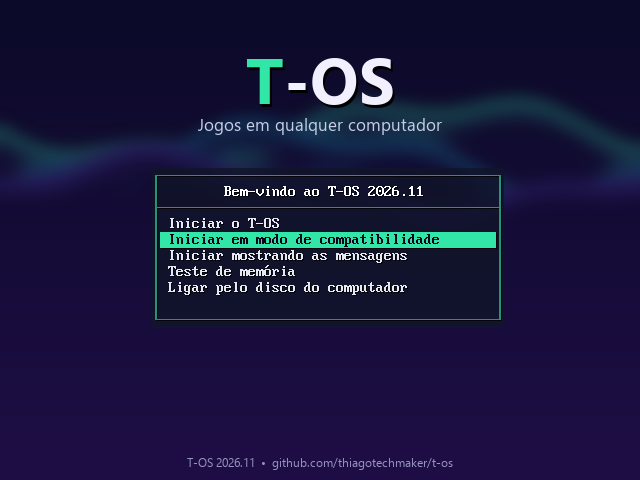
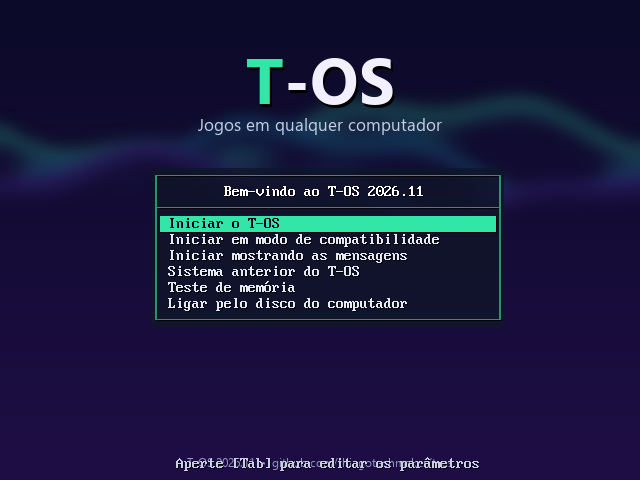
Fase 2: atualizacao A/B, PipeWire e Dreamcast
- tos-atualizar: procura a versao nova nas GitHub Releases, baixa,
  confere o SHA-256 e guarda a versao de agora como "anterior"
- initrd: depois de 3 tentativas sem chegar ao ScrapCade, volta sozinho
  para a versao anterior; menus BIOS/UEFI com "Sistema anterior"
- ScrapCade 1.4: tela "Atualizar o T-OS" no painel Sistema; confirma a
  versao nova depois de 60 s rodando; console Dreamcast (Flycast)
- PipeWire + WirePlumber (S35pipewire), curl, nucleo Flycast
- post-image: pasta atualizacao/ com os arquivos para publicar

Testado no QEMU: menu BIOS, volta automatica, confirmacao e a tela de
atualizacao alcancando o GitHub.

Changed region(s): [[0.25, 0.4375, 0.7812, 0.6562], [0.2812, 0.9375, 0.5938, 1.0], [0.5938, 0.9375, 0.75, 1.0]]

diff --git a/external/package/scrapcade/src/scrapcade.cpp b/external/package/scrapcade/src/scrapcade.cpp
@@ -1,4 +1,4 @@
-// ScrapCade para o T-OS - versao 1.3 (conversao do ScrapCade do iChroma para C++/SDL2)
+// ScrapCade para o T-OS - versao 1.4 (conversao do ScrapCade do iChroma para C++/SDL2)
 //
 // Modo jogo do T-OS: carrossel de capas com perspectiva e reflexo, filtros LB/RB (Todos, Favoritos,
 // Mais jogados e cada console), barra de cima com logo do console, emulador, filtro, hora, data e IP,
@@ -766,7 +766,7 @@ static void drawDetails() {
 
 // ------------------------------------------------------------------ painel Sistema (Select), como o Home.buildOptions
 
-enum { OPT_PERFIL, OPT_ENERGIA, OPT_THEME, OPT_ANIM, OPT_COVERS, OPT_BG, OPT_ENGINE, OPT_VOLUME, OPT_REDE, OPT_BLUETOOTH, OPT_SAMBA, OPT_SSH, OPT_CONTROLE, OPT_DESKTOP, OPT_HELP, OPT_BIOS, OPT_INSTALL, OPT_INFO, OPT_REBOOT, OPT_OFF, OPT_COUNT };
+enum { OPT_PERFIL, OPT_ENERGIA, OPT_THEME, OPT_ANIM, OPT_COVERS, OPT_BG, OPT_ENGINE, OPT_VOLUME, OPT_REDE, OPT_BLUETOOTH, OPT_SAMBA, OPT_SSH, OPT_CONTROLE, OPT_DESKTOP, OPT_HELP, OPT_BIOS, OPT_ATUALIZAR, OPT_INSTALL, OPT_INFO, OPT_REBOOT, OPT_OFF, OPT_COUNT };
 static bool sysOpen = false;
 static bool restartMenu = false;
 static std::string perfilNome();
@@ -845,6 +845,7 @@ static std::string optLabel(int i) {
     case OPT_DESKTOP: return "Modo desktop";
     case OPT_HELP: return "Como jogar (botões)";
     case OPT_BIOS: return "BIOS dos consoles";
+    case OPT_ATUALIZAR: return "Atualizar o T-OS";
     case OPT_INSTALL: return "Instalar no disco do computador";
     case OPT_INFO: return "Informações do sistema";
     case OPT_REBOOT: return "Reiniciar";
@@ -996,7 +997,7 @@ static void openInfo() {
     textLines.push_back(buf);
     textLines.push_back("Tela: " + std::to_string(G.W) + " x " + std::to_string(G.H) + "     Rede: " + ipAddr());
     snprintf(buf, sizeof buf, "  •  ligado há %d min", int(up / 60));
-    textLines.push_back("Sistema: T-OS " + ver.substr(ver.find('=') + 1) + " (Linux " + un.release + ")  •  menu: ScrapCade 1.3" + buf);
+    textLines.push_back("Sistema: T-OS " + ver.substr(ver.find('=') + 1) + " (Linux " + un.release + ")  •  menu: ScrapCade 1.4" + buf);
     textLines.push_back("Jogos: " + std::to_string(all.size()) + ", em " + ROMS);
     textLines.push_back("Emuladores previstos: " + emus);
     textLines.push_back("");
@@ -1438,6 +1439,103 @@ static void drawControle() {
     G.roundRect(x + 14 * u, top + 88 * u, std::max(6 * u, bw * ctlStep / NPASSOS), 6 * u, 3 * u, 0xFF2CCF9A);
 }
 
+// ------------------------------------------------------------------ atualizar o T-OS (tos-atualizar, A/B)
+
+static int updStage = 0;   // 0 fechado, 1 procurando, 2 resultado da procura, 3 baixando, 4 terminou
+static std::string updAtual, updNova, updMB, updMsg;
+static int updPct = 0;
+static std::mutex updMu;
+
+static std::string versaoBonita(const std::string &b) {   // 202611132145 -> 13/11/2026 21:45
+    if (b.size() < 12) return b;
+    return b.substr(6, 2) + "/" + b.substr(4, 2) + "/" + b.substr(0, 4) + " " + b.substr(8, 2) + ":" + b.substr(10, 2);
+}
+
+static void abrirAtualizar() {
+    updStage = 1;
+    std::thread([] {
+        std::string r = Rede::run("/usr/bin/tos-atualizar verificar");
+        while (!r.empty() && (r.back() == '\n' || r.back() == '\r')) r.pop_back();
+        std::vector<std::string> f;
+        std::stringstream ss(r);
+        std::string x;
+        while (std::getline(ss, x, '|')) f.push_back(x);
+        std::lock_guard<std::mutex> l(updMu);
+        updAtual = f.size() > 0 ? f[0] : "";
+        updNova = f.size() > 1 ? f[1] : "erro";
+        updMB = f.size() > 2 ? f[2] : "0";
+        updStage = 2;
+        redraw();
+    }).detach();
+}
+
+static void instalarAtualizacao() {
+    remove("/tmp/tos-atualizar.txt");
+    updPct = 0;
+    updMsg = "Começando";
+    updStage = 3;
+    std::thread([] {
+        if (system("/usr/bin/tos-atualizar instalar >> /userdata/system/logs/atualizar.log 2>&1") != 0) {}
+    }).detach();
+}
+
+static void drawAtualizar() {
+    if (!updStage) return;
+    float u = G.u, w = std::min(G.W - 24.0f * u, 440 * u), lh = 15 * u;
+    std::vector<std::string> L;
+    std::vector<uint32_t> C;
+    auto add = [&](const std::string &t, uint32_t cc = 0xFF2B2E33) { L.push_back(t); C.push_back(cc); };
+    std::string atual, nova, mb;
+    {
+        std::lock_guard<std::mutex> l(updMu);
+        atual = updAtual; nova = updNova; mb = updMB;
+    }
+    const char *H2[] = {"a", "atualizar", "b", "voltar"};
+    const char *H1[] = {"b", "voltar"};
+    const char *const *H = H1;
+    int nh = 2;
+    if (updStage == 1) {
+        add("Procurando a versão mais nova...");
+    } else if (updStage == 2) {
+        add("Versão instalada: " + versaoBonita(atual));
+        if (nova == "erro") {
+            add("Não deu para procurar: confira a internet (Rede e Wi-Fi).", 0xFFD0362B);
+        } else if (nova.empty()) {
+            add("O T-OS já está na versão mais nova.", 0xFF1E9C4A);
+        } else {
+            add("Versão nova: " + versaoBonita(nova) + "   (" + mb + " MB)", 0xFF1E9C4A);
+            add("");
+            add("Os jogos e os saves não são mexidos. A versão de agora fica guardada:");
+            add("se a nova não ligar, o T-OS volta para ela sozinho.", 0xFF5E6269);
+            H = H2;
+            nh = 4;
+        }
+    } else {
+        if (updStage == 3) {
+            std::ifstream in("/tmp/tos-atualizar.txt");
+            int pc = 0;
+            std::string msg;
+            if (in >> pc) { std::getline(in, msg); updPct = pc; if (!msg.empty()) updMsg = msg.substr(1); }
+            if (updPct >= 100 || updMsg.rfind("ERRO", 0) == 0) updStage = 4;
+        }
+        bool erro = updMsg.rfind("ERRO", 0) == 0;
+        add(updStage == 3 ? "Atualizando... não desligue." : (erro ? "A atualização não terminou." : "T-OS atualizado!"),
+            erro ? 0xFFD0362B : 0xFF2B2E33);
+        add(updMsg + (updStage == 3 ? "  (" + std::to_string(updPct) + "%)" : ""), erro ? 0xFFD0362B : 0xFF1E9C4A);
+        nh = updStage == 4 ? 2 : 0;
+    }
+    float h = 22 * u + 16 * u + L.size() * lh + 22 * u + (updStage == 3 ? 14 * u : 0);
+    float x = (G.W - w) / 2, y = (G.H - h) / 2;
+    float top = whitePanel("Atualizar o T-OS", x, y, w, h) + 12 * u;
+    for (size_t i = 0; i < L.size(); i++) T.draw(L[i], x + 14 * u, top + i * lh + lh / 2, 9.5f, false, C[i], 0, w - 28 * u);
+    if (updStage == 3) {
+        float by = top + L.size() * lh, bw = w - 28 * u;
+        G.roundRect(x + 14 * u, by, bw, 8 * u, 4 * u, 0xFFE3E5E8);
+        G.roundRect(x + 14 * u, by, std::max(8 * u, bw * updPct / 100.0f), 8 * u, 4 * u, 0xFF2CCF9A);
+    }
+    if (nh) panelHints(H, nh, x, y + h, w);
+}
+
 // ------------------------------------------------------------------ instalar no disco (tos-instalar)
 
 static int instStage = 0;   // 0 fechado, 1 escolher o disco, 2 confirmar, 3 instalando, 4 terminou
@@ -1619,6 +1717,7 @@ static void optAction(int dir) {
         return;
     case OPT_HELP: if (dir == 0) { sysOpen = false; openHelp(); } return;
     case OPT_INSTALL: if (dir == 0) { sysOpen = false; openInstall(); } return;
+    case OPT_ATUALIZAR: if (dir == 0) { sysOpen = false; abrirAtualizar(); } return;
     case OPT_BIOS:
         if (dir != 0) return;
         sysOpen = false;
@@ -1679,6 +1778,18 @@ static bool netInput(int b) {
     return true;
 }
 
+static bool updInput(int b) {
+    if (!updStage) return false;
+    std::string nova;
+    {
+        std::lock_guard<std::mutex> l(updMu);
+        nova = updNova;
+    }
+    if (updStage == 2 && b == B_A && !nova.empty() && nova != "erro") instalarAtualizacao();
+    else if ((updStage == 2 || updStage == 4) && (b == B_B || b == B_A)) { updStage = 0; sysOpen = true; }
+    return true;
+}
+
 static bool btInput(int b) {
     if (!btStage) return false;
     int n;
@@ -1721,6 +1832,7 @@ static bool panelInput(Btn b) {
     if (perfisInput(b)) return true;
     if (netInput(b)) return true;
     if (btInput(b)) return true;
+    if (updInput(b)) return true;
     if (installInput(b)) return true;
     if (!textTitle.empty()) {
         if (b == B_B || b == B_A || b == B_SELECT) { textTitle.clear(); sysOpen = true; }
@@ -2142,6 +2254,7 @@ static void render() {
     drawInstall();
     drawRede();
     drawBluetooth();
+    drawAtualizar();
     drawControle();
     drawTeclado();
     drawToast();
@@ -2186,7 +2299,7 @@ static std::string coreOf(const std::string &id) {
         {"nes", "mesen"}, {"snes", "snes9x"}, {"megadrive", "genesis_plus_gx"}, {"gb", "gambatte"},
         {"gbc", "gambatte"}, {"gba", "mgba"}, {"psx", "pcsx_rearmed"}, {"n64", "mupen64plus_next"},
         {"arcade", "fbneo"}, {"neogeo", "fbneo"}, {"psp", "ppsspp"}, {"nds", "melonds"},
-        {"saturn", "mednafen_saturn"}};
+        {"saturn", "mednafen_saturn"}, {"dreamcast", "flycast"}};
     auto it = m.find(id);
     return it == m.end() ? "" : it->second;
 }
@@ -2519,7 +2632,7 @@ int main() {
                     holdDir = 0;
                 break;
             case SDL_CONTROLLERAXISMOTION:
-                if (sysOpen || !textTitle.empty() || instStage || netStage || btStage || profStage || tkOn) {
+                if (sysOpen || !textTitle.empty() || instStage || netStage || btStage || updStage || profStage || tkOn) {
                     static int ly = 0;
                     if (e.caxis.axis == SDL_CONTROLLER_AXIS_LEFTY) {
                         int d = e.caxis.value < -20000 ? -1 : (e.caxis.value > 20000 ? 1 : 0);
@@ -2539,8 +2652,13 @@ int main() {
             }
         }
         Uint32 now = SDL_GetTicks();
+        static bool confirmado = false;
+        if (!confirmado && now > 60000) {
+            confirmado = true;
+            std::thread([] { if (system("/usr/bin/tos-atualizar confirmar") != 0) {} }).detach();
+        }
         // segurando o direcional: anda sozinho
-        if (holdDir && (sysOpen || !textTitle.empty() || instStage || netStage || btStage || ctlStep >= 0 || profStage || tkOn)) holdDir = 0;
+        if (holdDir && (sysOpen || !textTitle.empty() || instStage || netStage || btStage || updStage || ctlStep >= 0 || profStage || tkOn)) holdDir = 0;
         if (holdDir && now >= holdNext) { move(int(holdDir)); holdNext = now + 90; any = true; }
         // jogos novos na pasta: procura de novo a cada 5 s
         if (now - lastScan > 5000) {
@@ -2559,7 +2677,7 @@ int main() {
         time_t tt = time(nullptr);
         int mnow = localtime(&tt)->tm_min;
         static Uint32 lastBars = 0;
-        bool barsDue = (sysOpen || instStage == 3 || netStage == 1 || netStage == 3 || btStage) && now - lastBars > 1000;
+        bool barsDue = (sysOpen || instStage == 3 || netStage == 1 || netStage == 3 || btStage || updStage) && now - lastBars > 1000;
         if (ctlStep >= 0 || netStage == 2 || tkOn || profStage) any = true;
         if (barsDue) lastBars = now;
         if (any || animating || backdropFading || toastOn || mnow != minute || barsDue) {

diff --git a/external/package/scrapcade/src/catalogo.h b/external/package/scrapcade/src/catalogo.h
@@ -32,6 +32,7 @@ static std::vector<Sys> SYSTEMS = {
     {"gbc", "gbc", "Game Boy Color", "Gambatte", 0xFF2E9E62, {".gbc", ".zip"}},
     {"gba", "gba", "Game Boy Advance", "mGBA", 0xFF6C47C9, {".gba", ".zip"}},
     {"megadrive", "md", "Mega Drive", "Genesis Plus GX", 0xFF2B68C8, {".md", ".gen", ".smd", ".bin", ".sms", ".gg", ".zip"}},
+    {"dreamcast", "", "Dreamcast", "Flycast", 0xFFE8742B, {".cdi", ".gdi", ".chd", ".m3u"}},
     {"saturn", "", "Sega Saturn", "Beetle Saturn", 0xFF3A3F8F, {".cue", ".chd", ".ccd", ".m3u"}},
     {"psx", "psx", "PlayStation", "PCSX ReARMed", 0xFF7D8494, {".cue", ".chd", ".pbp", ".m3u", ".iso"}},
     {"ps2", "", "PlayStation 2", "PCSX2", 0xFF2C3E9A, {".iso", ".chd", ".cso"}},

diff --git a/external/package/scrapcade/src/organizar.h b/external/package/scrapcade/src/organizar.h
@@ -139,6 +139,7 @@ static std::string folder(const std::string &file) {
         {"gamecube", {".gcm", ".ciso"}},
         {"wii", {".wbfs"}},
         {"psp", {".cso"}},
+        {"dreamcast", {".cdi", ".gdi"}},
         {"dos", {".dosz"}},
         {"?", {".iso", ".rvz"}},
     };
